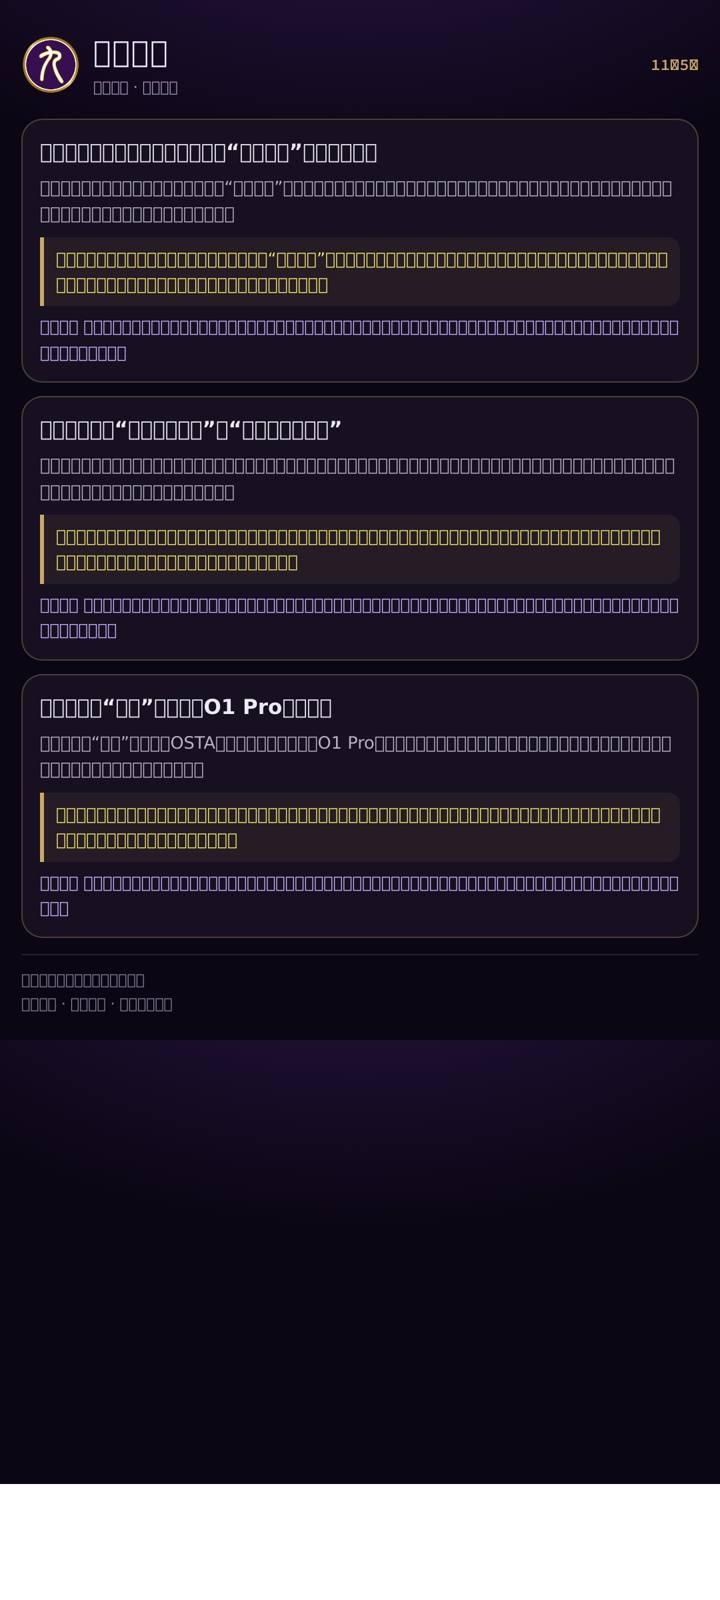
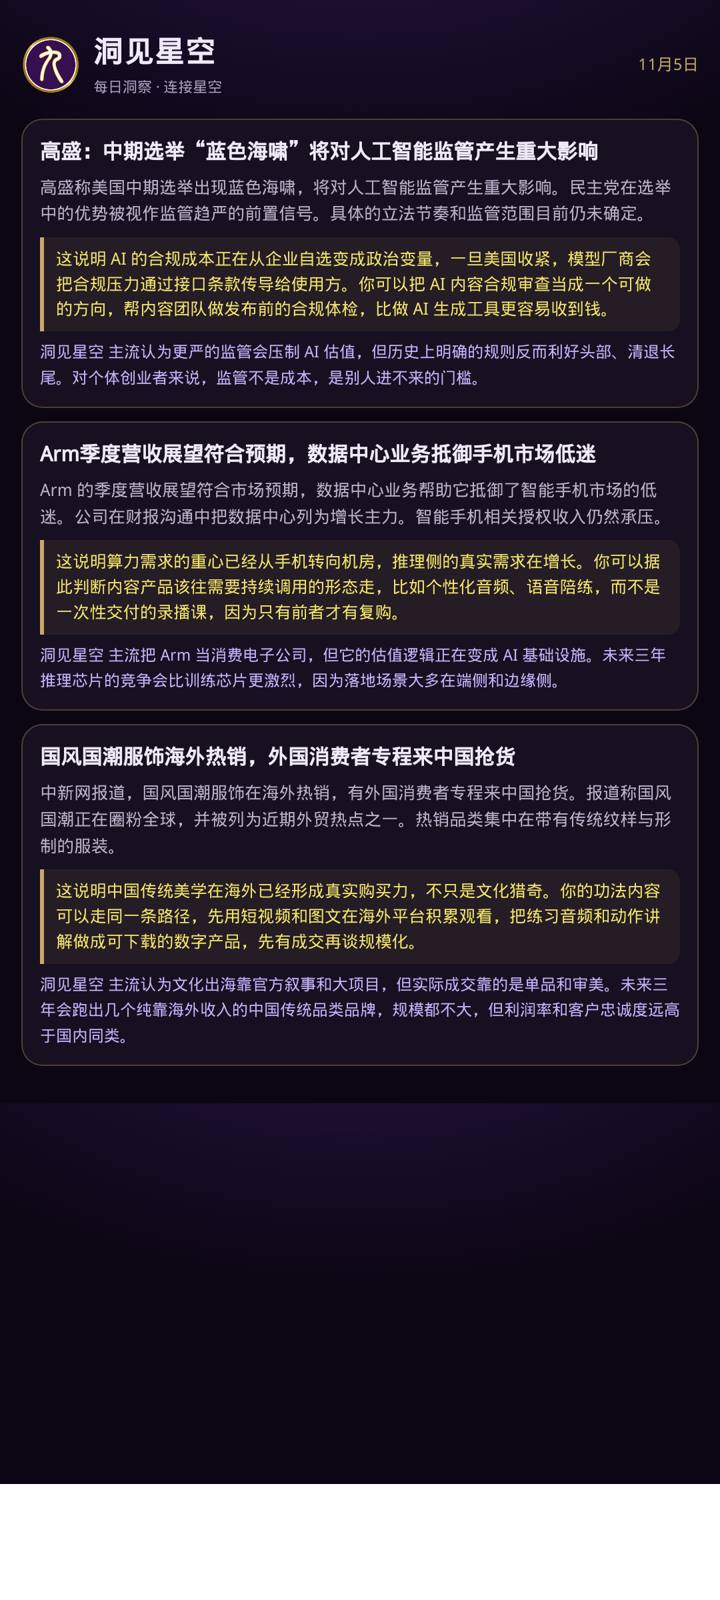
brief 2026-11-05

Changed region(s): [[0.0306, 0.0, 0.9778, 0.6562], [0.8861, 0.0312, 0.9778, 0.0625]]

diff --git a/2026-11-05.html b/2026-11-05.html
@@ -52,4 +52,4 @@ a{color:#b9a6ff;text-decoration:none}
 .teach{margin-top:10px;padding:10px 12px;border:1px dashed rgba(196,181,253,.35);border-radius:12px;font-size:13.5px;color:#d6ccf0}
 .teach b{color:var(--acc);font-weight:600}
 .foot{margin-top:44px;text-align:center;color:#5d5570;font-size:11px;letter-spacing:1.5px}
-</style></head><body><div class=grid></div><div class=wrap><div class=kicker>DONGJIAN · MORNING</div><div class=head><img class=logo src='logo.png' alt=logo><h1>洞见星空早报</h1></div><div class=sub>2026 年 11 月 5 日 · 星期四</div><h2>世界资讯 · 11</h2><div class=card><h3>中生制药与勃林格殷格翰达成最高70亿美元对外授权，刷新国内BD纪录</h3><p>中国生物制药与勃林格殷格翰达成围绕肿瘤领域的战略合作，最高总额70亿美元，创下国内药企对外授权的新纪录。这类交易通常由首付款、里程碑付款和销售分成三块构成，首付款占总额的比例往往远低于外界想象。同一天，公司港股早盘涨超5%。</p><div class=why>这说明跨国药企正在把早期管线外包给中国团队，单个细分方向也能卖出价钱；你可以留意“专业内容+精准人群社群”这类轻资产服务，它正是这类授权交易里最容易被外包出去的环节。</div><div class=teach>今天学一个词 · <b>BD交易（对外授权）</b>：药企把自己研发到一半的药，在海外市场的权益卖给大药厂，换首付款、后续里程碑款和销售分成。新闻里说的“总额”是把未来所有可能到账的钱加在一起，先到手的通常很少。</div><div class=insight><b>洞察</b> 70亿美元是“最高总额”口径，真正到手的首付常常只有个位数百分比，媒体标题会系统性夸大。长期看，中国创新药的重估不取决于单笔大单，而取决于海外买方能不能连续三年持续下单。</div><div class=chips><a class='chip acc' href='https://finance.sina.com.cn/tech/shenji/2026-11-05/doc-inixrumy8918859.shtml'>新浪科技</a></div></div><div class=card><h3>全球首款全尺寸超仿生机器人亮相，售价16.98万元、外观可定制</h3><p>一款全尺寸超仿生机器人正式亮相，定价16.98万元，外观可以按需求定制。厂商把它定位在展示、陪伴和交互场景，而不是工业产线。这个价位已经进入小型商户和个体工作室的采购区间。</p><div class=why>这说明人形硬件第一次降到个体可以认真讨论的价格带，先买的人赚到的是注意力，而不是效率；你可以试着把这类设备当成租赁资产，做景区、展馆、文化空间的短期租用生意，而不是自己买来长期持有。</div><div class=teach>今天学一个词 · <b>硬件毛利</b>：卖一台设备收到的钱，减去这台设备的物料和组装成本，剩下的比例就是毛利。16.98万里毛利有多少，决定厂商还能不能继续降价。</div><div class=insight><b>洞察</b> 现阶段超仿生机器人卖的是情绪价值和围观效应，不是生产力，折旧速度会远快于宣传口径。真正的分水岭不是价格再降多少，而是有没有人靠“租它”跑出正向现金流。</div><div class=chips><a class='chip acc' href='https://finance.sina.com.cn/jjxw/2026-11-04/doc-inixqnsv7997130.shtml'>新浪科技</a></div></div><div class=card><h3>国星宇航11月5日起招股，预计11月13日上市</h3><p>国星宇航于11月5日至11月10日招股，计划在11月13日上市。公司业务围绕AI卫星星座与遥感数据服务展开。商业航天公司进入公开市场融资，意味着这条赛道开始从补贴驱动转向由公开市场定价。</p><div class=why>这说明卫星影像的下游应用正在被当成独立生意来估值，遥感数据的调用接口会越来越便宜、越来越开放；你可以关注公开的卫星影像与气象数据接口，把它当作内容产品与工具类产品的免费素材来源。</div><div class=teach>今天学一个词 · <b>招股（IPO）</b>：公司第一次把股份卖给公众投资者，募来的钱用来扩产、研发或还债。招股那几天是机构报价下单的窗口，定完发行价才正式挂牌交易。</div><div class=insight><b>洞察</b> 商业航天的估值长期建立在“星座数量”的叙事上，而真实收入高度依赖政府和国企订单。上市后的定期披露，会让“数据服务到底能不能赚钱”第一次有据可查。</div><div class=chips><a class='chip acc' href='https://finance.sina.com.cn/stock/hkstock/ggipo/2026-11-05/doc-inixrunh9650279.shtml'>新浪财经</a></div></div><div class=card><h3>河北出台一揽子措施支持OPC创新发展</h3><p>河北省发布一揽子措施，明确支持OPC（一人公司）创新发展，把这类超小微市场主体单独列为政策对象。此前多数扶持政策的统计口径是中小企业和个体工商户。一人公司正在成为独立的政策单元。</p><div class=why>这说明“一个人加AI工具”的公司形态开始进入地方产业政策的视野，后续可能在注册、税收、场地补贴上出现差异化安排；你可以把各地对一人公司的政策口径列成一张对比表，作为判断业务落点的依据。</div><div class=insight><b>洞察</b> 地方扶持OPC的实质是抢税源和就业统计，真正的制度红利不在补贴，而在简化注销和责任边界。判断一项OPC政策有没有含金量，就看它是否回答“一个人怎么承担有限责任”这个问题。</div><div class=chips><a class='chip acc' href='https://www.chinanews.com.cn/cj/2026/11-05/10726400.shtml'>中新网财经</a></div></div><div class=card><h3>中期选举落地后黄金暴涨逾3%，现货重回4100美元</h3><p>美国中期选举结果落地后，现货黄金单日大涨逾3%，重新站上4100美元/盎司，并守住4000点关口。港股黄金板块同步走强。这一轮上涨由政治不确定性主导，而不是由利率预期主导。</p><div class=why>这说明市场正在直接给“政策不确定性”定价，避险需求会在每次政治事件窗口反复出现；你可以把它当成一条时点规律——大额支出尽量避开这类事件窗口，因为流动性最差的时候往往就在附近。</div><div class=insight><b>洞察</b> “黄金新高就等于抗通胀”是过度简化的说法，这一轮更像央行购金和地缘溢价的叠加。长期看，金价与实际利率的传统负相关已经明显减弱，继续用老框架择时会连续犯错。</div><div class=chips><a class='chip acc' href='https://finance.sina.com.cn/money/nmetal/hjzx/2026-11-05/doc-inixrunh9628278.shtml'>新浪财经</a></div></div><div class=card><h3>楼市“银十”收官：京沪新房销售同比增长，18城二手房成交增17.5%</h3><p>10月楼市收官，京沪新房销售面积实现同比增长，18个重点城市二手房成交量同比增长17.5%。回暖主要体现在成交量上，二手房的表现强于新房。</p><div class=why>这说明置换链条先在二手端松动，租金和商铺价格的传导通常滞后半年左右；如果你未来想找线下场地做体验型活动，可以从二手房成交活跃的城市先谈，那时候供给更充分、议价空间更大。</div><div class=insight><b>洞察</b> 成交回升常被解读为楼市见底，但二手放量更可能是降价换来的流动性，而不是需求恢复。真正的拐点信号是新房价格环比转正，而不是成交量放大。</div><div class=chips><a class='chip acc' href='https://www.chinanews.com.cn/cj/2026/11-05/10726379.shtml'>中新网财经</a></div></div><div class=card><h3>市场监管行政处罚裁量新规发布，“首违不罚”如何认定明确</h3><p>市场监管部门发布行政处罚裁量新规，对“首违不罚”的适用条件作出具体认定。规则明确了初次违法、危害后果轻微、及时改正等要件的判断标准。这直接影响小微主体的合规成本。</p><div class=why>这说明监管在给轻微违法留容错空间，但前提是“及时改正”能够被证明；你做任何对外经营动作时，把整改过程留存下来（截图、时间、处理结果）本身就是一种合规资产，遇到检查时能直接兑现。</div><div class=insight><b>洞察</b> 首违不罚不是放松监管，而是把裁量权标准化，长期看会提高执法的可预测性。对小微企业真正的价值在于：可以据此判断哪些错误值得冒，哪些一次都不能碰。</div><div class=chips><a class='chip acc' href='https://www.chinanews.com.cn/cj/2026/11-05/10726367.shtml'>中新网财经</a></div></div><div class=card><h3>香港渐成中企“跨境架构中枢”和“国际标准试验场”</h3><p>有经济观察指出，香港正逐渐成为内地企业的跨境架构中枢与国际标准试验场。企业把境外主体、资金结算与合规测试放在香港完成。这与内地对跨境数据和资金的监管要求同步演化。</p><div class=why>这说明面向海外用户收费的产品，架构设计正在变成前置问题而不是后置问题；如果你以后做面向境外华人的内容或课程，可以先摸清香港主体收款的合规路径，而不是等有了收入再补手续。</div><div class=insight><b>洞察</b> 香港的价值不在税率低，而在于它提供了一个可被国际审计的中间层。判断这类架构值不值得搭，标准是看它能不能降低你和支付通道、平台之间的信任成本。</div><div class=chips><a class='chip acc' href='https://www.chinanews.com.cn/cj/2026-11-04/10726325.shtml'>中新网财经</a></div></div><div class=card><h3>华为子品牌“星芒”首款机型O1 Pro定位旗舰</h3><p>华为子品牌“星芒”（英文名OSTA）公布首款阔直板机型O1 Pro，定位旗舰。这是在主品牌之外新增的一条产品线。多品牌策略通常用于覆盖不同价格带和不同渠道。</p><div class=why>这说明硬件厂商在用多品牌切分人群，渠道规则和内容分发规则会跟着分化；做内容的人要提前判断新品牌的应用商店、预装位和服务卡片，会不会成为下一批零成本分发入口。</div><div class=insight><b>洞察</b> 多品牌不是市场变大的信号，而是同一存量市场的内部分割。真正的观察点是新品牌有没有独立的系统和账号体系，否则它只是换了外壳的价格战。</div><div class=chips><a class='chip acc' href='https://finance.sina.com.cn/tech/roll/2026-11-04/doc-inixqhkx8071732.shtml'>新浪科技</a></div></div><div class=card><h3>白酒三季报：19家公司谁在出清、谁在修复</h3><p>白酒行业三季报显示，19家上市公司业绩出现明显分化，一部分企业主动出清库存，一部分企业在修复渠道。行业整体从扩张期转入存量竞争。</p><div class=why>这说明传统消费品正在经历“去库存优先于保增长”的阶段，渠道话语权回到终端；如果你以后做传统文化相关的实物或衍生品，可以参考它“先清库存再加价”的节奏，不要在需求没验证时压货。</div><div class=insight><b>洞察</b> 白酒的分化常被解读成消费降级，但更准确的说法是消费场景在迁移：商务宴请萎缩，自饮和礼赠在重新排位。品牌真正的护城河是场景占位，而不是价格带。</div><div class=chips><a class='chip acc' href='https://finance.sina.com.cn/stock/observe/2026-11-04/doc-inixqhkz0168859.shtml'>新浪科技</a></div></div><div class=card><h3>京东101HOME开业以来接待超20万人体验，负责人称全自营是最大护城河</h3><p>京东101HOME门店开业以来接待超过20万人次体验，业务负责人表示全自营是最大护城河。这是电商平台把线下体验做成重资产的一次尝试。门店承担的是体验与信任建立，而不是即时成交。</p><div class=why>这说明线下体验正在被重新算成获客成本的一部分，而不是销售渠道；你以后办传统文化相关的线下活动时，可以按“体验人数与二次到访”来设计考核，而不是按当场成交，评估逻辑会完全不同。</div><div class=insight><b>洞察</b> 全自营线下店是重资产，短期靠集团现金流撑着，长期能不能成立取决于单店复购，而不是体验人数。把体验人数当成功指标，是这类门店最常见的自我安慰。</div><div class=chips><a class='chip acc' href='https://finance.sina.com.cn/tech/it/2026-11-04/doc-inixqsyv0014620.shtml'>新浪科技</a></div></div><h2>科技 · 8</h2><div class=card><h3>天数智芯天垓300真机实测：有效Token成本直降40%</h3><p>国产GPU天数智芯天垓300完成真机实测，官方口径称性能赶超国际主流GPU。在超节点架构下，有效Token成本下降40%。这是国产算力第一次把“单位推理成本”当作核心指标对外披露。</p><div class=why>这说明国产卡的竞争点已经从跑分转向“每块钱能跑多少推理”，模型调用价格还会继续往下走；这意味着重度依赖模型的产品形态开始可行，比如需要反复推演、逐条比对的工具。</div><div class=chips><a class='chip acc' href='https://finance.sina.com.cn/tech/it/2026-11-04/doc-inixqsyn9272244.shtml'>新浪科技</a></div></div><div class=card><h3>Arm季度营收展望符合预期，数据中心业务抵住手机市场低迷</h3><p>Arm给出的季度营收展望符合市场预期。数据中心相关业务增长，抵消了智能手机市场需求疲软的影响。这印证了算力需求的重心正在从终端设备向服务器侧迁移。</p><div class=why>这说明算力需求重心从终端转向服务器，低功耗架构的本地推理设备性价比也会跟着改善；你可以关注离线场景（弱网、无网）里的本地推理硬件，那是一片云服务覆盖不到的市场。</div><div class=chips><a class='chip acc' href='https://finance.sina.com.cn/stock/usstock/c/2026-11-05/doc-inixrqea8945717.shtml'>新浪科技</a></div></div><div class=card><h3>国行苹果AI首批接入得物，11月4日开放测试</h3><p>国行Apple Intelligence的首批合作方之一是得物，11月4日开放测试。AI能力被直接嵌进电商App的搜索与导购链路。苹果在国行采取的是接入第三方服务、而不是全部自研落地的路线。</p><div class=why>这说明超级入口正在把模型能力变成默认功能，独立App的“AI功能”溢价会被迅速抹平；你可以反过来利用这一点——把内容做成结构化、可被检索的问答条目，才有机会被这类入口调用。</div><div class=chips><a class='chip acc' href='https://finance.sina.com.cn/tech/it/2026-11-04/doc-inixqnsq9346336.shtml'>新浪科技</a></div></div><div class=card><h3>闲鱼CEO：Agent带来新模式，150万用户获得持续稳定收入</h3><p>闲鱼CEO谌伟业称，Agent正在平台上创造新的交易模式和体验，已有150万用户通过平台获得持续稳定收入。平台把AI能力放在发布、定价、沟通这些环节。这意味着一个人经营一个小店的门槛被进一步压低。</p><div class=why>这说明平台正在用AI替用户处理运营事务，个体创业的最小团队规模事实上已经降到一个人；你可以观察这类Agent会不会开放第三方技能接入，那会是一条新的分发渠道。</div><div class=chips><a class='chip acc' href='https://finance.sina.com.cn/tech/it/2026-11-04/doc-inixqsyv0040255.shtml'>新浪科技</a></div></div><div class=card><h3>字节新规限制员工使用外部AI，知情人士回应</h3><p>字节跳动出台新规限制员工使用外部AI工具，知情人士对媒体作出回应。这类规定通常指向数据外泄与合规风险，而不是否定AI本身。大厂正在把AI使用纳入内部信息安全管理。</p><div class=why>这说明“公司内部可用的AI”正在变成刚需，私有化部署和内部知识库会持续有单；你可以关注面向小团队的知识库与合规问答类工具，这类需求会从大厂外溢到中小企业。</div><div class=chips><a class='chip acc' href='https://finance.sina.com.cn/chanjing/gsnews/2026-11-04/doc-inixqxhk9235629.shtml'>新浪科技</a></div></div><div class=card><h3>Meta启动欧元债券首次发行，此前美元债已筹150亿美元</h3><p>Meta启动首次欧元债券发行，此前已通过美元债筹集150亿美元。大型科技公司正在用债务市场为AI基础设施融资。这是资本开支从依赖自有现金流转向加杠杆的信号。</p><div class=why>这说明AI基建的钱开始来自债市，一旦回报不及预期，收缩会来得比想象中快；你选择依赖某家云或某个模型时，可以先看它的融资结构和长期供给稳定性，再决定把哪些能力押上去。</div><div class=chips><a class='chip acc' href='https://finance.sina.com.cn/stock/usstock/c/2026-11-04/doc-inixqhks9393709.shtml'>新浪科技</a></div></div><div class=card><h3>直播间里的Token，你会买吗？</h3><p>有媒体报道称，Token（模型调用额度）开始出现在直播间，被当作商品销售。算力与模型额度正在被包装成面向普通消费者的标准化商品。销售渠道从开发者平台扩展到内容电商。</p><div class=why>这说明模型调用额度正在被“零售化”，靠信息差赚差价的中间商开始出现；你可以观察这类渠道的报价与官方报价差多少，判断哪些AI能力已经变成可以囤货的日用品。</div><div class=chips><a class='chip acc' href='https://www.chinanews.com.cn/cj/2026/11-05/10726384.shtml'>中新网财经</a></div></div><div class=card><h3>李斌：智能驾驶的意义应是解放司机精力、减少事故，而不是让司机失业</h3><p>蔚来李斌在乌镇演讲中表示，智能驾驶最大的意义不是让出租车、网约车司机丢掉工作，而是解放司机精力、减少交通事故。他把AI的正当性建立在“让人的工作更轻松更安全”之上。</p><div class=why>这说明自动驾驶的公共叙事正在从“替代人力”转向“增强人力”，与监管沟通会顺很多；做AI应用的人可以借用这个框架，把产品描述成降低出错率和学习成本，而不是替代谁。</div><div class=chips><a class='chip acc' href='https://finance.sina.com.cn/tech/shenji/2026-11-05/doc-inixrunk6238467.shtml'>新浪科技</a></div></div><h2>开源项目 · 10</h2><div class=card><div class=repo><div><div class=n><a href='https://github.com/Renhuai123/ziwei-doushu'>Renhuai123/ziwei-doushu</a></div><div class=d>紫微斗数开源排盘引擎，包含完整排盘算法、四化系统、格局知识库和古籍原文数据，基于倪海厦《天纪》体系。</div></div><div class=s>★ 15801</div></div><div class=repo><div><div class=n><a href='https://github.com/SylarLong/iztro'>SylarLong/iztro</a></div><div class=d>轻量紫微斗数排盘工具库，供开发者直接生成星盘。</div></div><div class=s>★ 4346</div></div><div class=repo><div><div class=n><a href='https://github.com/jangviktor-web/nihaixia'>jangviktor-web/nihaixia</a></div><div class=d>以倪海厦教学资料为基础的中医Agent技能，蒸馏了伤寒论、金匮要略、黄帝内经等课程，做六经辨证与八纲辨证。</div></div><div class=s>★ 3993</div></div><div class=repo><div><div class=n><a href='https://github.com/jinchenma94/bazi-skill'>jinchenma94/bazi-skill</a></div><div class=d>四柱八字命理分析技能，以独立插件形式提供。</div></div><div class=s>★ 3799</div></div><div class=repo><div><div class=n><a href='https://github.com/DestinyLinker/MingLi-Bench'>DestinyLinker/MingLi-Bench</a></div><div class=d>评估大模型在八字与紫微斗数表现的中文命理基准测试集。</div></div><div class=s>★ 2552</div></div><div class=repo><div><div class=n><a href='https://github.com/6tail/lunar-javascript'>6tail/lunar-javascript</a></div><div class=d>公历农历互转库，支持节气、干支、生肖、佛历道历、每日宜忌与吉神凶煞。</div></div><div class=s>★ 1736</div></div><div class=repo><div><div class=n><a href='https://github.com/FANzR-arch/Numerologist_skills'>FANzR-arch/Numerologist_skills</a></div><div class=d>给中文命理类大模型做防幻觉约束的工程框架。</div></div><div class=s>★ 1567</div></div></div><div class=card><div class=repo><div class=n style='color:#c9a86a'>热门 · 不限分类</div></div><div class=repo><div><div class=n><a href='https://github.com/cirosantilli/x86-bare-metal-examples'>cirosantilli/x86-bare-metal-examples</a></div><div class=d>一组极简的x86裸机操作系统示例，用来学习底层系统编程。</div></div><div class=s>★ 5434</div></div><div class=repo><div><div class=n><a href='https://github.com/cirosantilli/china-dictatorship'>cirosantilli/china-dictatorship</a></div><div class=d>一个以政治立场为主题，收集问答、新闻与素材链接的仓库。</div></div><div class=s>★ 3315</div></div><div class=repo><div><div class=n><a href='https://github.com/gege-circle/.github'>gege-circle/.github</a></div><div class=d>一个中文社区仓库，主要讨论动漫、游戏、科技、人文、生活等话题。</div></div><div class=s>★ 2079</div></div></div><div class=foot>洞见星空 · 仅供学习交流，不构成投资建议</div></div></body></html>
+</style></head><body><div class=grid></div><div class=wrap><div class=kicker>DONGJIAN · MORNING</div><div class=head><img class=logo src='logo.png' alt=logo><h1>洞见星空早报</h1></div><div class=sub>2026 年 11 月 5 日 · 星期四</div><h2>世界资讯 · 10</h2><div class=card><h3>OpenAI总裁称做好明年上市准备</h3><p>OpenAI 总裁公开表示公司已做好明年上市的准备。此前 OpenAI 长期依靠私募融资与战略投资支撑高强度投入。上市意味着其收入结构、亏损幅度与算力采购合同都要向公开市场披露。消息由新浪财经发出。</p><div class=why>这告诉你 AI 头部公司正从私募输血切换到公开市场定价，一旦上市，整个 AI 应用层的估值锚会被重新设定。你可以盯它披露的收入构成里订阅与 API 各占多少，判断资本市场认可的是工具型还是内容型产品，再决定自己下一块内容资产往哪边靠。</div><div class=teach>今天学一个词 · <b>资本开支（CapEx）</b>：公司买设备、建机房这类一次性大额投入，不直接算当期费用，而是分摊到以后几年。AI 公司烧钱主要就烧在这上面。</div><div class=insight><b>洞察</b> 主流把 OpenAI 上市当成 AI 泡沫的顶点信号，但更可能的分水岭是：上市之后 AI 从故事变成财报，被淘汰的不是没有技术的小团队，而是没有复购的产品。未来两年中文 AI 内容产品的定价会向订阅制收敛，一次性买断的高价课会越来越难卖。</div><div class=chips><a class='chip acc' href='https://finance.sina.com.cn/stock/usstock/c/2026-11-05/doc-inixryty5644886.shtml'>新浪财经</a></div></div><div class=card><h3>Sand.ai完成2亿美元A+轮融资，10个月累计3亿美元</h3><p>Sand.ai 宣布完成 2 亿美元 A+ 轮融资，这是公司 2026 年完成的第三轮融资。10 个月内累计融资额达到 3 亿美元，本轮融资后正式跻身独角兽行列。融资节奏在同赛道里属于极快的一档。</p><div class=why>这说明资本正在向少数 AI 团队高度集中，一年三轮、十个月三亿美元的节奏意味着行业进入烧钱换身位的阶段。个人创业者正面做模型不现实，但这些公司做不了的脏活——垂类数据整理、中文场景适配、内容审校——恰恰是最容易被外包或被收购的位置，你可以先接这类活建立关系。</div><div class=teach>今天学一个词 · <b>A+轮</b>：公司在 A 轮之后、B 轮之前加的一次融资，通常用来在估值上调前快速补钱，节奏比正常轮次快。</div><div class=insight><b>洞察</b> 主流认为融资额代表技术领先，但一年三轮更像是资本怕错过而不是看好，真实护城河在数据和工作流而不在参数。未来 12 个月会看到一批垂直行业的 AI 应用被大厂低价并购，独立做通用模型的小团队会加速出清。</div><div class=chips><a class='chip acc' href='https://wallstreetcn.com/livenews/3194682'>华尔街见闻</a></div></div><div class=card><h3>全球首款全尺寸超仿生机器人亮相，售价16.98万模样可定制</h3><p>全球首款全尺寸超仿生机器人公开亮相，售价 16.98 万元，模样可按客户需求定制。报道未披露具体交付时间与量产规模。16.98 万这个价位落在商用展陈与文旅采购的预算区间内，而不是工业产线的采购逻辑。</p><div class=why>这说明拟人机器人已经从展台样机走到明码标价，第一批买单的会是景区、展馆、康养机构而不是家庭。你可以关注机器人加传统文化展演这个组合，外观定制意味着外壳之下需要脚本、语音包和讲解词，这块内容供给目前几乎空白，是内容方最容易切进去的位置。</div><div class=teach>今天学一个词 · <b>超仿生</b>：指外形、表情、皮肤质感尽量接近真人，不只是关节能动，还包括面部微表情和体温这类细节。</div><div class=insight><b>洞察</b> 主流叙事是人形机器人进家庭，但短期内真正产生现金流的是 B 端的展陈与陪伴场景。定制外观这件事说明硬件会商品化，真正稀缺的是 IP 授权和内容包，未来这类公司的利润大头不在机器上。</div><div class=chips><a class='chip acc' href='https://finance.sina.com.cn/jjxw/2026-11-04/doc-inixqnsv7997130.shtml'>新浪科技</a></div></div><div class=card><h3>中科院物理所团队以低成本前驱体制备钠电材料</h3><p>中科院物理所、北京凝聚态物理国家研究中心清洁能源重点实验室胡勇胜研究员、谢飞副研究员团队，以低成本的 NaBF₄ 和 ZrCl₆ 为前驱体，通过一步机械化学法制备了系列材料。该路线强调前驱体易得与合成步骤少。这类研究通常瞄准储能和低速电动场景。</p><div class=why>这说明国内材料研发正在往低成本合成工艺上集中，而不是只比性能指标。硬科技科普的需求会同步上升，钠电、固态电池、储能这些词在中文短视频里已有稳定流量，且能接到品牌方的科普预算，比泛健康内容更容易谈商单。</div><div class=teach>今天学一个词 · <b>前驱体</b>：做材料时先合成出来的中间产物，后面的反应都以它为原料。前驱体便宜、稳定，最终产品成本才压得下来。</div><div class=insight><b>洞察</b> 主流把钠电说成锂电的替代者，它更可能是补充，真正的胜负手在低成本合成工艺而不是能量密度。未来两年被淘汰的会是只讲故事、没有工艺专利的材料公司。</div><div class=chips><a class='chip acc' href='https://wallstreetcn.com/livenews/3194670'>华尔街见闻</a></div></div><div class=card><h3>中国生物制药达成最高70亿美元对外授权，刷新国内BD纪录</h3><p>中国生物制药与勃林格殷格翰强化肿瘤领域战略合作，达成最高 70 亿美元的对外授权。这笔交易刷新了国内 BD 交易纪录，是本轮创新药出海里金额最高的一档。授权方保留部分区域权益。</p><div class=why>这说明中国创新药的出海方式已经从卖产品变成卖管线，交易撮合与跨境合规的人才变得稀缺。你可以留意医药 BD、海外授权谈判这类硬技能的知识付费需求，客单价和复购都远高于泛健康内容，而目前中文供给非常少。</div><div class=teach>今天学一个词 · <b>license-out（对外授权）</b>：把自己研发的药在海外市场的开发和销售权卖给外国药企，换首付款和后续里程碑分成。药还没上市就能先拿到钱。</div><div class=insight><b>洞察</b> 主流把 license-out 刷纪录当成产业升级的标志，但被买走的往往是早期管线，临床和商业化能力仍留在外资手里。未来两年会冒出一批专门做 BD 撮合的中介型公司，它们的价值现在被严重低估。</div><div class=chips><a class='chip acc' href='https://finance.sina.com.cn/tech/shenji/2026-11-05/doc-inixrumy8918859.shtml'>新浪科技</a></div></div><div class=card><h3>国星宇航11月5日起招股，预计11月13日上市</h3><p>国星宇航于 11 月 5 日至 11 月 10 日招股，预计 11 月 13 日上市。公司主营卫星研制与卫星数据服务，属于商业航天赛道。这是近期少有的商业航天公司赴港上市动作。</p><div class=why>这说明卫星数据正在从政府订单走向商业客户，遥感影像的民用接口会变得更便宜、更好调用。做地理、农业、文旅内容的人可以用卫星图做差异化素材，比如把某座山或某片湖的四季卫星影像做成内容，素材成本几乎为零。</div><div class=teach>今天学一个词 · <b>遥感</b>：卫星或飞机从上往下拍地面，得到影像和数据，可以用来数农作物面积、看河流变化、监测工地进度。</div><div class=insight><b>洞察</b> 主流把商业航天等同于可回收火箭和星链竞赛，但先上市的这类公司收入主要来自卫星应用和数据分销，不是发射。未来两年的竞争点在谁能把卫星数据卖给中小客户，而不是谁发射得多。</div><div class=chips><a class='chip acc' href='https://finance.sina.com.cn/stock/hkstock/ggipo/2026-11-05/doc-inixrunh9650279.shtml'>新浪财经</a></div></div><div class=card><h3>高盛：中期选举“蓝色海啸”将对人工智能监管产生重大影响</h3><p>高盛称美国中期选举出现蓝色海啸，将对人工智能监管产生重大影响。民主党在选举中的优势被视作监管趋严的前置信号。具体的立法节奏和监管范围目前仍未确定。</p><div class=why>这说明 AI 的合规成本正在从企业自选变成政治变量，一旦美国收紧，模型厂商会把合规压力通过接口条款传导给使用方。你可以把 AI 内容合规审查当成一个可做的方向，帮内容团队做发布前的合规体检，比做 AI 生成工具更容易收到钱。</div><div class=teach>今天学一个词 · <b>蓝色海啸（blue wave）</b>：美国政治术语，指民主党在同一场选举里大范围获胜。蓝色是民主党的代表色，海啸形容胜幅很大。</div><div class=insight><b>洞察</b> 主流认为更严的监管会压制 AI 估值，但历史上明确的规则反而利好头部、清退长尾。对个体创业者来说，监管不是成本，是别人进不来的门槛。</div><div class=chips><a class='chip acc' href='https://finance.sina.com.cn/stock/usstock/c/2026-11-05/doc-inixryuh6202664.shtml'>新浪财经</a></div></div><div class=card><h3>Arm季度营收展望符合预期，数据中心业务抵御手机市场低迷</h3><p>Arm 的季度营收展望符合市场预期，数据中心业务帮助它抵御了智能手机市场的低迷。公司在财报沟通中把数据中心列为增长主力。智能手机相关授权收入仍然承压。</p><div class=why>这说明算力需求的重心已经从手机转向机房，推理侧的真实需求在增长。你可以据此判断内容产品该往需要持续调用的形态走，比如个性化音频、语音陪练，而不是一次性交付的录播课，因为只有前者才有复购。</div><div class=teach>今天学一个词 · <b>推理（inference）</b>：模型训练好之后，每次回答问题、生成内容时运行的那一步。用户越多，推理消耗越大，成本主要看这里。</div><div class=insight><b>洞察</b> 主流把 Arm 当消费电子公司，但它的估值逻辑正在变成 AI 基础设施。未来三年推理芯片的竞争会比训练芯片更激烈，因为落地场景大多在端侧和边缘侧。</div><div class=chips><a class='chip acc' href='https://finance.sina.com.cn/stock/usstock/c/2026-11-05/doc-inixrqea8945717.shtml'>新浪科技</a></div></div><div class=card><h3>国风国潮服饰海外热销，外国消费者专程来中国抢货</h3><p>中新网报道，国风国潮服饰在海外热销，有外国消费者专程来中国抢货。报道称国风国潮正在圈粉全球，并被列为近期外贸热点之一。热销品类集中在带有传统纹样与形制的服装。</p><div class=why>这说明中国传统美学在海外已经形成真实购买力，不只是文化猎奇。你的功法内容可以走同一条路径，先用短视频和图文在海外平台积累观看，把练习音频和动作讲解做成可下载的数字产品，先有成交再谈规模化。</div><div class=teach>今天学一个词 · <b>国潮</b>：把中国传统元素，比如纹样、形制、色彩，用在现代商品设计上形成的消费风潮，近年在服饰、美妆、茶饮里最集中。</div><div class=insight><b>洞察</b> 主流认为文化出海靠官方叙事和大项目，但实际成交靠的是单品和审美。未来三年会跑出几个纯靠海外收入的中国传统品类品牌，规模都不大，但利润率和客户忠诚度远高于国内同类。</div><div class=chips><a class='chip acc' href='https://www.chinanews.com.cn/cj/2026/11-05/10726436.shtml'>中新网财经</a></div></div><div class=card><h3>“China Haul”背后，藏着怎样的中国？</h3><p>中新网刊文《“China Haul”背后，藏着怎样的中国？》，讨论海外消费者集中采购中国商品的现象。Haul 类视频指博主一次性展示大量购物战利品，在海外社交平台流量很高。文章把这一现象放在中国制造与跨境消费的框架下解读。</p><div class=why>这说明海外用户对中国商品的认知正在被内容重塑，内容本身成了渠道。你可以用英文记录功法练习的日常，让内容先建立信任再导向产品，而不是先搭站再买流量，这条路对单人团队成本低得多。</div><div class=teach>今天学一个词 · <b>Haul 视频</b>：博主把一次采购的商品全部摆出来逐件展示、试用的视频形式。因为真实、信息密度高，在海外平台转化率很高。</div><div class=insight><b>洞察</b> 主流把 China Haul 当成供应链优势的证明，但它的流量红利来自价差，价差会随关税和平台政策消失。真正沉淀下来的是人格化的信任关系，未来的出海赢家是会做内容的人，不是会开店的人。</div><div class=chips><a class='chip acc' href='https://www.chinanews.com.cn/cj/2026/11-05/10726442.shtml'>中新网财经</a></div></div><h2>科技 · 10</h2><div class=card><h3>天数智芯天垓300真机实测：Token成本直降40%</h3><p>天数智芯天垓 300 的真机实测结果显示，性能已赶超国际主流 GPU。在超节点架构下，有效 Token 成本直降 40%。这一数据来自公开的实测披露。</p><div class=why>这说明国产算力在推理侧的性价比已经跨过临界点，AI 应用的单次调用代价会继续下探。你可以观察这波成本下降会催生哪些高频交互加垂类内容的产品，优先学它们的交互设计，而不是自己从零构思产品形态。</div><div class=chips><a class='chip acc' href='https://finance.sina.com.cn/tech/it/2026-11-04/doc-inixqsyn9272244.shtml'>新浪科技</a></div></div><div class=card><h3>灵光2.0上线一周托管超116万项事务，用户突破2000万</h3><p>灵光 2.0 上线一周，托管事务超过 116 万项，用户规模突破 2000 万。托管类功能指用户把订票、提醒、比价这些具体事务交给 Agent 执行。产品增长主要来自事务型场景而非聊天。</p><div class=why>这说明用户愿意把办事交给 AI，而不只是聊天，付费意愿也集中在结果上。值得关注的是事务托管这个品类的收费结构，按次还是包月，哪一种在中文用户里跑得通，会直接决定一批小团队的产品设计。</div><div class=chips><a class='chip acc' href='https://finance.sina.com.cn/tech/shenji/2026-11-05/doc-inixryue9568010.shtml'>新浪科技</a></div></div><div class=card><h3>闲鱼CEO：Agent创造新模式，150万用户获得持续稳定收入</h3><p>闲鱼 CEO 谌伟业表示，Agent 为平台创造了新的交易模式和体验，已有 150 万用户通过平台获得持续稳定收入。闲鱼是二手商品与技能服务的撮合平台。Agent 主要承担定价、客服与上架这类重复动作。</p><div class=why>这说明一个人加一个 Agent 已经可以撑起一门小生意。你可以研究闲鱼上技能服务的供给形态，比如陪练、教学、咨询，看功法教学能不能做成被平台撮合的服务，而不是只靠自有渠道卖。</div><div class=chips><a class='chip acc' href='https://finance.sina.com.cn/tech/it/2026-11-04/doc-inixqsyv0040255.shtml'>新浪科技</a></div></div><div class=card><h3>360发布元认知模型，让AI从能生成走向可靠执行</h3><p>360 在乌镇峰会发布元认知模型，主打让 AI 从能生成走向可靠执行。所谓元认知，指模型对自身的推理过程进行监控和校正。发布会把可靠性而非生成质量作为主要卖点。</p><div class=why>这说明行业竞争的焦点正在从生成质量转向执行可靠性，用户不为生成付费，为结果付费。你可以据此判断内容产品的卖点该落在完成上，比如一套练习有没有做完、动作有没有到位，而不是内容时长和数量。</div><div class=chips><a class='chip acc' href='https://finance.sina.com.cn/tech/it/2026-11-04/doc-inixqnss6108904.shtml'>新浪科技</a></div></div><div class=card><h3>国行苹果AI首批接入得物，11月4日开放测试</h3><p>国行苹果 AI 的首批接入方中出现得物，于 11 月 4 日开放测试。首批合作场景集中在电商与消费决策类应用。国行版本的能力开放节奏明显慢于海外。</p><div class=why>这说明苹果 AI 的落地路径是接入具体 App 而不是一个通用入口，谁先进名单谁拿系统级曝光。你可以持续盯这份接入名单的变化，一旦向内容与健康类 App 开放，早期接入的获客成本会远低于买量。</div><div class=chips><a class='chip acc' href='https://finance.sina.com.cn/tech/it/2026-11-04/doc-inixqnsq9346336.shtml'>新浪科技</a></div></div><div class=card><h3>Meta启动欧元债券首次发行，此前美元债已筹150亿美元</h3><p>Meta 启动欧元债券的首次发行，此前已通过美元债筹集 150 亿美元。连续的大规模举债动作集中在 AI 相关的基础设施投入周期里。科技巨头通过债市为算力建设融资已成常态。</p><div class=why>这说明科技巨头的 AI 投入已经开始加杠杆，行业进入用债务换算力的阶段。这个周期里最先被挤压的是靠买量增长的公司，内容型产品的获客波动相对小，你可以据此判断自己该不该在这个时点大规模投流量。</div><div class=chips><a class='chip acc' href='https://finance.sina.com.cn/stock/usstock/c/2026-11-04/doc-inixqhks9393709.shtml'>新浪科技</a></div></div><div class=card><h3>字节新规限制员工使用外部AI，知情人士回应</h3><p>有消息称字节跳动出台新规，限制员工使用外部 AI 工具，知情人士对此作出回应。大厂对内部数据外流的担忧是这类规定的常见动因。此前多家头部公司已采取类似限制。</p><div class=why>这说明大厂的核心顾虑是数据与合规，需求会转向可私有化、可审计的 AI 工具。对个人来说，帮中小企业做 AI 使用规范和落地培训是当下就能接到的活，比做通用 AI 工具更容易收到第一笔钱。</div><div class=chips><a class='chip acc' href='https://finance.sina.com.cn/chanjing/gsnews/2026-11-04/doc-inixqxhk9235629.shtml'>新浪科技</a></div></div><div class=card><h3>QuestMobile：红果免费短剧9月月活4.3亿，同比增长81.8%</h3><p>QuestMobile 报告显示，9 月红果免费短剧的月活跃用户规模达到 4.3 亿，同比增长 81.8%。免费短剧以广告变现为主，单集时长通常在几分钟以内，靠连续钩子留住用户。</p><div class=why>这说明中文互联网最大的增量流量仍在免费、高频、强钩子的内容形态上。你可以研究它的单集结构，前几秒给什么、什么时候转折，把这套节奏用到功法内容的短视频拆条上，而不是只做长音频。</div><div class=chips><a class='chip acc' href='https://finance.sina.com.cn/tech/it/2026-11-04/doc-inixqnsv7985057.shtml'>新浪科技</a></div></div><div class=card><h3>华为子品牌“星芒”曝光：英文名OSTA，首款O1 Pro定位旗舰</h3><p>华为推出子品牌星芒，英文名为 OSTA，首款机型 O1 Pro 定位旗舰，采用阔直板形态。这是华为在主品牌之外新增的独立品牌线。新品牌通常承担细分人群和价格带的试探任务。</p><div class=why>这说明手机厂商仍在拆子品牌细分人群，新品牌冷启动期对内容合作方的报价通常更宽松。你可以留意这类新品牌的早期内容合作窗口，用比成熟平台低得多的成本拿到曝光。</div><div class=chips><a class='chip acc' href='https://finance.sina.com.cn/tech/roll/2026-11-04/doc-inixqhkx8071732.shtml'>新浪科技</a></div></div><div class=card><h3>李斌：智能驾驶的意义是解放精力减少事故，而非让司机丢工作</h3><p>蔚来李斌表示，智能驾驶最大的意义不应是让出租车、网约车司机丢掉工作，而是解放司机精力、减少交通事故。这一表态出现在自动驾驶商业化加速推进的背景下。同类表述在行业内正变得越来越常见。</p><div class=why>这说明 AI 产品的对外叙事正在从替代人转向增强人，因为替代叙事会直接招来监管和舆论阻力。这套框架做内容的人可以直接借用，讲增强身体能力而不是暗示治疗效果，既合规也更容易被接受。</div><div class=chips><a class='chip acc' href='https://finance.sina.com.cn/tech/shenji/2026-11-05/doc-inixrunk6238467.shtml'>新浪科技</a></div></div><h2>开源项目 · 10</h2><div class=card><div class=repo><div><div class=n><a href='https://github.com/Renhuai123/ziwei-doushu'>Renhuai123/ziwei-doushu</a></div><div class=d>紫微斗数开源排盘引擎，基于《天纪》体系，含完整排盘算法、四化系统、格局知识库和古籍原文数据。</div></div><div class=s>★ 15818</div></div><div class=repo><div><div class=n><a href='https://github.com/SylarLong/iztro'>SylarLong/iztro</a></div><div class=d>轻量级紫微斗数排盘库，提供生成星盘的工具接口，可直接嵌入网页或小程序。</div></div><div class=s>★ 4346</div></div><div class=repo><div><div class=n><a href='https://github.com/jangviktor-web/nihaixia'>jangviktor-web/nihaixia</a></div><div class=d>以倪海厦教学资料为基础的中医 Agent 技能，蒸馏伤寒论、金匮要略、黄帝内经、神农本草经、针灸篇，含六经辨证、八纲辨证与人纪医案思维。</div></div><div class=s>★ 3995</div></div><div class=repo><div><div class=n><a href='https://github.com/jinchenma94/bazi-skill'>jinchenma94/bazi-skill</a></div><div class=d>四柱八字命理分析的 Python 技能实现，可直接被 Agent 平台调用。</div></div><div class=s>★ 3800</div></div><div class=repo><div><div class=n><a href='https://github.com/DestinyLinker/MingLi-Bench'>DestinyLinker/MingLi-Bench</a></div><div class=d>评估大模型在中国传统命理（八字、紫微）任务上表现的基准数据集。</div></div><div class=s>★ 2552</div></div><div class=repo><div><div class=n><a href='https://github.com/6tail/lunar-javascript'>6tail/lunar-javascript</a></div><div class=d>日历库，支持公历、农历、佛历、道历，以及节气、节日、干支、生肖、每日宜忌等。</div></div><div class=s>★ 1736</div></div><div class=repo><div><div class=n><a href='https://github.com/FANzR-arch/Numerologist_skills'>FANzR-arch/Numerologist_skills</a></div><div class=d>一个针对中国术数领域给大模型去幻觉的工程框架，用约束与校验防止模型乱编。</div></div><div class=s>★ 1567</div></div></div><div class=card><div class=repo><div class=n style='color:#c9a86a'>热门 · 不限分类</div></div><div class=repo><div><div class=n><a href='https://github.com/cirosantilli/x86-bare-metal-examples'>cirosantilli/x86-bare-metal-examples</a></div><div class=d>几十个最小可运行的 x86 裸机操作系统示例，用于学习底层系统编程，全部经过实测。</div></div><div class=s>★ 5434</div></div><div class=repo><div><div class=n><a href='https://github.com/gege-circle/.github'>gege-circle/.github</a></div><div class=d>一个以动漫、游戏、科技、人文、生活为话题的社区仓库，用于圈子成员交流。</div></div><div class=s>★ 2079</div></div><div class=repo><div><div class=n><a href='https://github.com/OCNYang/QBox'>OCNYang/QBox</a></div><div class=d>基于 RxJava、Retrofit、Okhttp、Glide 的练手 App，把新闻、笑话等多个小模块聚合在一个入口里。</div></div><div class=s>★ 1383</div></div></div><div class=foot>洞见星空 · 仅供学习交流，不构成投资建议</div></div></body></html>
